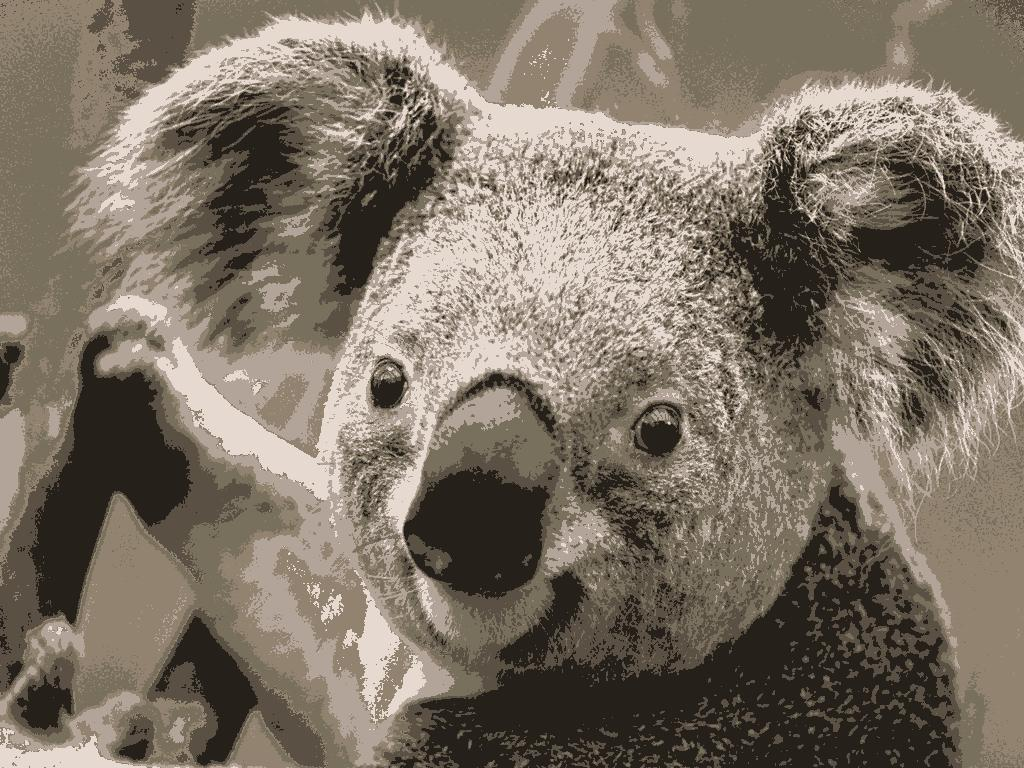
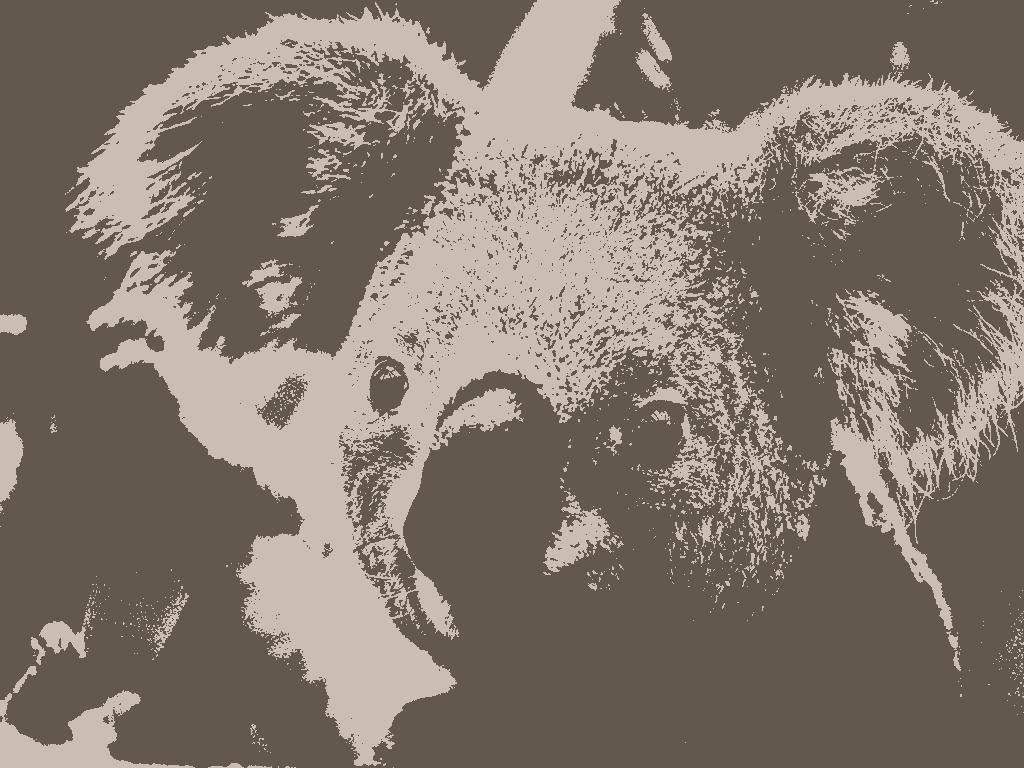
added more runs

diff --git a/src/main/java/Main.java b/src/main/java/Main.java
@@ -11,14 +11,14 @@ import java.util.Random;
 public class Main {
     public static void main(String [] args){
         if (args.length < 3){
-            System.out.println("Usage: Kmeans <input-image> <k> <output-image>");
+            System.out.println("Usage: mvn exec:java -Dexec.mainClass=\"Main\" -Dexec.args=\"Koala.jpg 2 Koala2.jpg\"");
             return;
         }
         try{
             BufferedImage originalImage = ImageIO.read(new File(args[0]));
             int k=Integer.parseInt(args[1]);
             BufferedImage kmeansJpg = kmeans_helper(originalImage,k);
-            ImageIO.write(kmeansJpg, "jpg", new File(args[0]));
+            ImageIO.write(kmeansJpg, "jpg", new File(args[2]));
 
         }catch(IOException e){
             System.out.println(e.getMessage());

diff --git a/README.md b/README.md
@@ -1,0 +1,15 @@
+mvn clean package
+ 
+mvn exec:java -Dexec.mainClass="Main" -Dexec.args="Koala.jpg 2 Koala2.jpg"
+ 
+### Report
+
+Koala.jpg - regular image
+
+Koala2.jpg 
+- k=2, 1st run
+
+Koala2-2.jpg 
+- k=2, 2nd run
+
+so on
